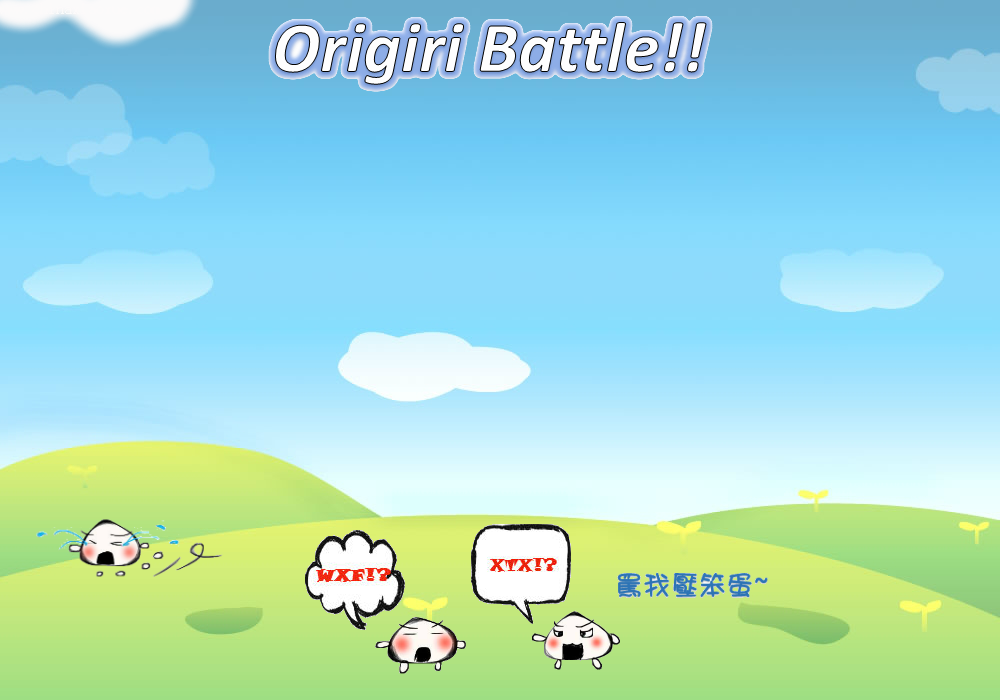
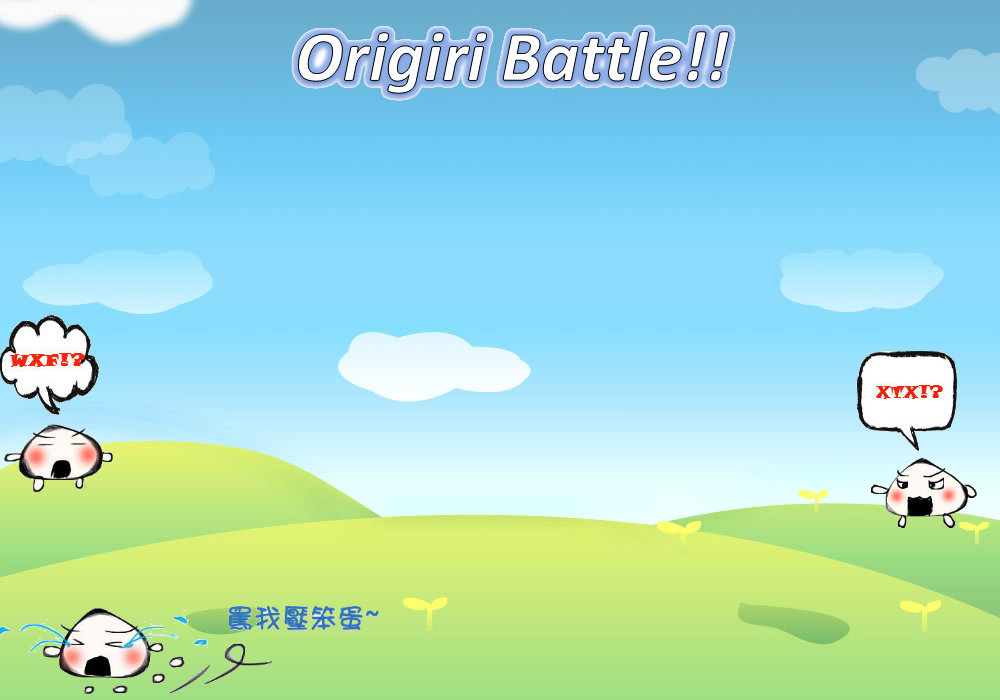
fix UI

diff --git a/public/js/gameMove.js b/public/js/gameMove.js
@@ -1,0 +1,134 @@
+/**
+ * New node file
+ */
+function abc(){
+	
+		speed=1;
+	
+		selfX=2;
+		selfY=3;
+		selfId="ABC";
+		color="#980000";
+		
+		colors={};
+		
+		var table=$('<table></table>').attr("border",1).attr("id","table_map");
+		for(i=1;i<=12;i++){
+			var row = $('<tr></tr>').height('30');
+			for(j=1;j<=30;j++){
+				var column=$('<td></td>').width('30');
+				row.append(column);
+			}
+			table.append(row);
+		}
+		$('#base_table').append(table);
+		
+		createTriangle(selfId,selfX,selfY,color);
+		
+		window.addEventListener('keydown',doKeyDown,true);
+		
+	}
+	
+	function createTriangle(id,x,y,color){
+		var td=$("#table_map").find("tr").eq(y).find("td").eq(x);
+		td.append($("<div></div>").addClass("moveU").attr("id",id).css("border-bottom","15px solid "+color));
+	}
+	
+	function doKeyDown(evt){
+		switch (evt.keyCode) {
+		case 38:  /* Up arrow was pressed */
+		if(selfY==0){
+			selfY=15;
+		}else{
+			selfY=selfY-1;
+		}
+		$("#table_map").find("tr").eq(selfY).find("td").eq(selfX).append($("#"+selfId));
+		$("#"+selfId).removeClass().css({borderTop: "",borderBottom:"", borderLeft: "",borderRight:"" }).addClass("moveU").css("border-bottom","15px solid "+color);
+		checkDiedU();
+		break;
+		
+		case 40:  /* Down arrow was pressed */
+		if(selfY==15){
+			selfY=0;
+		}else{
+			selfY=selfY+1;
+		}
+		$("#table_map").find("tr").eq(selfY).find("td").eq(selfX).append($("#"+selfId));
+		$("#"+selfId).removeClass().css({borderTop: "",borderBottom:"", borderLeft: "",borderRight:"" }).addClass("moveD").css("border-top","15px solid "+color);
+		checkDiedD();
+		break;
+		
+		case 39:  /* Right arrow was pressed */
+		if(selfX==29){
+			selfX=0;
+		}else{
+			selfX=selfX+1;
+		}
+		$("#table_map").find("tr").eq(selfY).find("td").eq(selfX).append($("#"+selfId));
+		$("#"+selfId).removeClass().css({borderTop: "",borderBottom:"", borderLeft: "",borderRight:"" }).addClass("moveR").css("border-left","15px solid "+color);
+		checkDiedR();
+		
+		
+		break;
+		case 37:  /* Left arrow was pressed */
+		if(selfX==0){
+			selfX=29;
+		}else{
+			selfX=selfX-1;
+		}
+		$("#table_map").find("tr").eq(selfY).find("td").eq(selfX).append($("#"+selfId));
+		$("#"+selfId).removeClass().css({borderTop: "",borderBottom:"", borderLeft: "",borderRight:"" }).addClass("moveL").css("border-right","15px solid "+color);
+		checkDiedL();
+		break;
+		}
+	}
+	
+	function updateMove(name,x,y,direction){
+	
+		$("#table_map").find("tr").eq(y).find("td").eq(x).append($("#"+name));
+		var obj=$("#"+name).removeClass().css({borderTop: "",borderBottom:"", borderLeft: "",borderRight:"" });
+		switch(direction){
+			case "U":
+			obj.addClass("moveU").css("border-bottom","15px solid "+colors[name]);
+			break;
+			case "D":
+			obj.addClass("moveD").css("border-top","15px solid "+colors[name]);
+			break;
+			case "L":
+			obj.addClass("moveL").css("border-right","15px solid "+colors[name]);
+			break;
+			case "R":
+			obj.addClass("moveR").css("border-left","15px solid "+colors[name]);
+			break;
+		}
+	}
+	
+	function checkDiedU(){
+		
+	}
+	function checkDiedD(){
+		
+	}
+	function checkDiedL(){
+		
+	}
+	function checkDiedR(){
+		
+	}
+	function initPlayers(){
+		var details=$("#testObjs").val();
+		var jsonData = $.parseJSON(details);
+		for (var i in jsonData) {
+		var player=jsonData[i];
+			createTriangle(player.id,player.x,player.y,player.color);
+			colors[player.id]=player.color;
+		}
+	}
+	function testUpdatePlayers(){
+		var details=$("#testUpObjs").val();
+		var jsonData = $.parseJSON(details);
+		for (var i in jsonData) {
+		var player=jsonData[i];
+			updateMove(player.id,player.x,player.y,player.direction);
+		}
+	}

diff --git a/public/stylesheets/gameColor.css b/public/stylesheets/gameColor.css
@@ -1,0 +1,48 @@
+.battleTable {
+	position: absolute;
+  	top: 15%;
+}
+
+.moveU {
+	border-left: 15px solid transparent;
+	border-right: 15px solid transparent;
+}
+	
+.moveD {
+	border-left: 15px solid transparent;
+	border-right: 15px solid transparent;
+}
+
+.moveL {
+	border-top: 13px solid transparent;
+	border-bottom: 13px solid transparent;
+}
+
+.moveR {
+	border-top: 13px solid transparent;
+	border-bottom: 13px solid transparent;
+}
+
+#battleChattingMessage {
+	background-color: #FFFFFF;
+	position: absolute;
+  	left: 5%;
+  	top: 80%;
+	width: 500px;
+  	height: 100px;
+}
+
+#enterBattleChattingMessage {
+	background-color: #FFFFFF;
+	position: absolute;
+  	left: 50%;
+  	top: 93%;
+	width: 400px;
+  	height: 30px;
+}
+
+#send_battle_message_btn {
+	position: absolute;
+  	left: 83%;
+  	top: 93%;
+}
